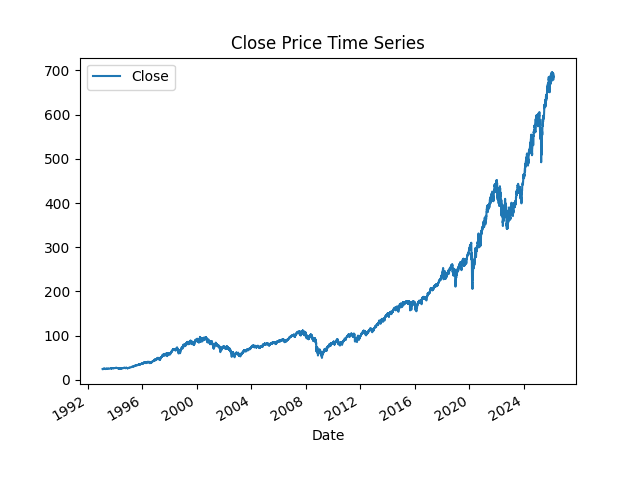
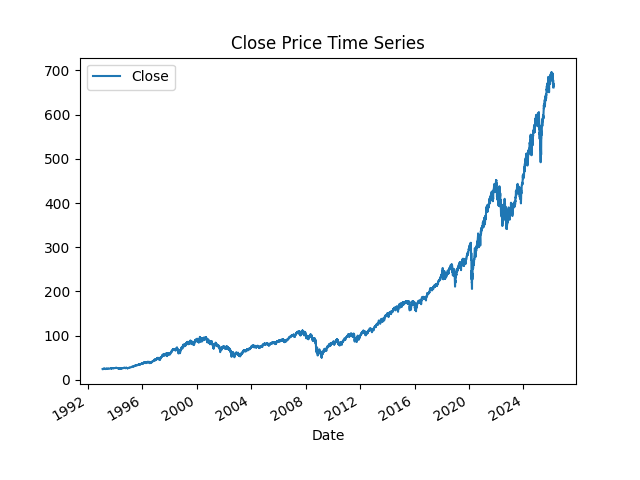
add feature engineering and model evaluation metrics

diff --git a/newNoiseReduceTEST/trainingModel.py b/newNoiseReduceTEST/trainingModel.py
@@ -3,13 +3,17 @@ import pandas as pd
 import numpy as np
 from xgboost import XGBClassifier
 import matplotlib.pyplot as plt
+import numpy as np
 
 import visualization
 
 from sklearn.model_selection import train_test_split
-from sklearn.metrics import accuracy_score
 from sklearn.ensemble import RandomForestClassifier
 from sklearn.metrics import precision_score
+from sklearn.metrics import precision_score, recall_score
+from sklearn.metrics import accuracy_score, precision_score, recall_score, f1_score
+
+import pandas as pd
 
 
 
@@ -23,70 +27,136 @@ def extractDaysData(data, start, end):
     return data.loc[start:end]
 
 
-def XGBClassifierModel(data):
+def backtestBuyLowSellHigh(data, startDate,
+                        buy_rsi_threshold=40,
+                        sell_rsi_threshold=60,
+                        buy_price_window=20,
+                        sell_price_window=20):
 
-    X = data[["Close", "Volume", "Open", "High", "Low"]]
-    y = data["Target"]
+    data = data.dropna(subset=["Prediction"]).copy()
+    data = data.loc[startDate:].copy()
 
-    X_train, X_test, y_train, y_test = train_test_split(
-        X, y, test_size=0.2, shuffle=False
-    )
+    data["Return"] = data["Close"].pct_change()
 
-    model = XGBClassifier(
-        n_estimators=200,
-        max_depth=3,
-        learning_rate=0.05,
-        subsample=0.8,
-        colsample_bytree=0.8,
-        eval_metric="logloss",
-        random_state=42
-    )
+    data["SMA_Buy"] = data["Close"].rolling(window=buy_price_window).mean()
+    data["SMA_Sell"] = data["Close"].rolling(window=sell_price_window).mean()
 
-    model.fit(X_train, y_train)
+    data["Position"] = 0
 
-    predictions = model.predict(X_test)
+    in_position = False
 
-    acc = accuracy_score(y_test, predictions)
-    baseline = precision_score(y_test, pd.Series(1, index=y_test.index))
-    print("Accuracy for XGBoost Classifier:", acc)
-    print("Baseline Precision (always up):", baseline)
-    
+    for i in range(len(data)):
+        row = data.iloc[i]
+
+        close_price = row["Close"]
+        prediction = row["Prediction"]
+        rsi = row["RSI"]
+        sma_buy = row["SMA_Buy"]
+        sma_sell = row["SMA_Sell"]
+
+        if pd.isna(sma_buy) or pd.isna(sma_sell) or pd.isna(rsi):
+            continue
+
+        buy_condition = (
+            prediction == 1 and
+            close_price < sma_buy and
+            rsi <= buy_rsi_threshold
+        )
+
+        sell_condition = (
+            prediction == 0 and
+            close_price > sma_sell and
+            rsi >= sell_rsi_threshold
+        )
+
+        if not in_position and buy_condition:
+            data.iloc[i, data.columns.get_loc("Position")] = 1
+            in_position = True
+
+        elif in_position and sell_condition:
+            data.iloc[i, data.columns.get_loc("Position")] = 0
+            in_position = False
+
+        else:
+            data.iloc[i, data.columns.get_loc("Position")] = 1 if in_position else 0
+
+    data["Strategy_Return"] = data["Position"].shift(1) * data["Return"]
+    data = data.dropna().copy()
+
+    sharpe = (
+        data["Strategy_Return"].mean() /
+        data["Strategy_Return"].std()
+    ) * (252 ** 0.5)
+
+    buy_hold_sharpe = (
+        data["Return"].mean() /
+        data["Return"].std()
+    ) * (252 ** 0.5)
 
 
-def forestClassifer(data):
 
-    model = RandomForestClassifier(n_estimators=100, min_samples_split=100, random_state=42)
-    #higer n_estimators means more trees in the forest, which can lead to better performance but also increases computational cost.
-    #but it have a limitation, if the number of trees is too high, it can lead to overfitting, where the model performs well on training data but poorly on unseen data.
+    initial_capital = 1
+    data["Strategy_Equity"] = initial_capital * (1 + data["Strategy_Return"]).cumprod()
+    data["BuyHold_Equity"] = initial_capital * (1 + data["Return"]).cumprod()
 
-    #if build tree too deep, it can lead to overfitting
-    #min_samples_split=100 means that a node must have at least 100 samples to be considered for splitting.
-    #this will help to protect aginst overfitting 
 
-    X = data[["Open","High","Low","Close","Volume"]]
-    y = data["Target"]
-
-    train_size = int(len(data) * 0.8)
-
-    X_train = X[:train_size]
-    X_test  = X[train_size:]
-
-    y_train = y[:train_size]
-    y_test  = y[train_size:]
-
-    
-    model.fit(X_train, y_train)
-
-    pred = model.predict(X_test)
-
-    print("Accuracy for Random Forest Classifier:",
-          accuracy_score(y_test, pred))
-
-    data.loc[X_test.index, "Prediction"] = pred
-    print("Prediction sum:", pred.sum())
 
     return data
 
+
+
+def calculateRSI(close_prices, period=14):
+    delta = close_prices.diff()
+    gains = delta.clip(lower=0)
+    losses = -delta.clip(upper=0)
+    avg_gain = gains.rolling(window=period).mean()
+    avg_loss = losses.rolling(window=period).mean()
+    rs = avg_gain / avg_loss
+    rsi = 100 - (100 / (1 + rs))
+    return rsi.fillna(50)
+
+
+def forestClassifer(data, threshold=0.4):
+    model = RandomForestClassifier(
+        n_estimators=300,
+        max_depth=6,
+        min_samples_split=20,
+        min_samples_leaf=5,
+        class_weight="balanced",
+        random_state=42
+    )
+
+    feature_cols = [
+        "Open", "High", "Low", "Close", "Volume",
+        "Return_1D", "Return_5D", "SMA_Ratio",
+        "Volatility_20", "Volume_Change", "RSI"
+    ]
+    X = data[feature_cols]
+    y = data["Target"]
+
+    train_size = int(len(data) * 0.8)
+    X_train = X[:train_size]
+    X_test = X[train_size:]
+    y_train = y[:train_size]
+    y_test = y[train_size:]
+
+    model.fit(X_train, y_train)
+
+    proba = model.predict_proba(X_test)[:, 1]
+    pred = (proba > threshold).astype(int)
+
+    data = data.copy()
+    data["Prediction"] = np.nan
+    data.loc[X_test.index, "Prediction"] = pred
+
+    print("Threshold:", threshold)
+    print("Accuracy:", accuracy_score(y_test, pred))
+    print("Precision:", precision_score(y_test, pred, zero_division=0))
+    print("Recall:", recall_score(y_test, pred, zero_division=0))
+    print("F1 Score:", f1_score(y_test, pred, zero_division=0))
+
+    data["RSI"] = calculateRSI(data["Close"])
+    return data
 
 def backtest(data, startDate):
 
@@ -113,15 +183,15 @@ def backtest(data, startDate):
         data["Return"].std()
     ) * (252 ** 0.5)
 
-    print("Buy & Hold Sharpe:", buy_hold_sharpe)
-    print("My Strategy Sharpe Ratio:", sharpe)
+
 
     initial_capital = 1
-
     data["Strategy_Equity"] = initial_capital * (1 + data["Strategy_Return"]).cumprod()
     data["BuyHold_Equity"] = initial_capital * (1 + data["Return"]).cumprod()
 
-    print("Strategy Final Value:", data["Strategy_Equity"].iloc[-1])
-    print("Buy & Hold Final Value:", data["BuyHold_Equity"].iloc[-1])
+    
 
     return data
+ 
+
+   

diff --git a/newNoiseReduceTEST/main.py b/newNoiseReduceTEST/main.py
@@ -9,32 +9,34 @@ import pandas as pd
 
 if __name__ == "__main__":
 
+    USE_BLSH = False
     data = dataLoad.loadAndCleanData()
     data = dataLoad.extraDataSet(data)
+    data = dataLoad.add_features(data)
 
     visualization.closePricePlot(data)
 
-    # Train XGBoost model
-    #trainingModel.XGBClassifierModel(data)
-    
-    # Random Forest baseline
-    
-    startDate = "2021-12-01"
     data = trainingModel.forestClassifer(data)
-    data = trainingModel.backtest(data, startDate)
 
-    print(data.head())
- 
+    train_size = int(len(data) * 0.8)
+    startDate = data.index[train_size]
 
-
-    output = data.loc[startDate:,["Return", "Prediction", "Position", "Strategy_Equity", "Target"]]
+    if USE_BLSH:
+        
+        data["RSI"] = trainingModel.calculateRSI(data["Close"])
+        data = trainingModel.backtestBuyLowSellHigh(data, startDate)
+        print("Backtest completed with Buy Low Sell High strategy.")
+    else:
+       
+        data = trainingModel.backtest(data, startDate)
+        print("Backtest completed with original strategy.")
+    output = data.loc[startDate:, [
+        "Return", "Prediction", "Position", "Strategy_Equity", "Target"
+    ]]
 
     output.to_csv("backtest.csv")
 
     print("Saved to backtest.csv")
-    #Return is today's price change
-    #Targer is whether the price will go up tomorrow (1) or not (0)
-
     print("Last date:", data.index.max())
     print("Rows:", len(data))
     print("Hash check:", data["Close"].sum())

diff --git a/newNoiseReduceTEST/dataLoad.py b/newNoiseReduceTEST/dataLoad.py
@@ -1,5 +1,6 @@
 import yfinance as yf
 import pandas as pd
+import trainingModel    
 
 def loadAndCleanData():
     data = yf.Ticker("SPY")
@@ -20,3 +21,15 @@ def extraDataSet(data):
     # and "0" otherwise.
     return data
 
+
+def add_features(data):
+    data = data.copy()
+    data["Return_1D"] = data["Close"].pct_change()
+    data["Return_5D"] = data["Close"].pct_change(5)
+    data["SMA_10"] = data["Close"].rolling(10).mean()
+    data["SMA_20"] = data["Close"].rolling(20).mean()
+    data["SMA_Ratio"] = data["SMA_10"] / data["SMA_20"]
+    data["Volatility_20"] = data["Return_1D"].rolling(20).std()
+    data["Volume_Change"] = data["Volume"].pct_change()
+    data["RSI"] = trainingModel.calculateRSI(data["Close"])
+    return data
